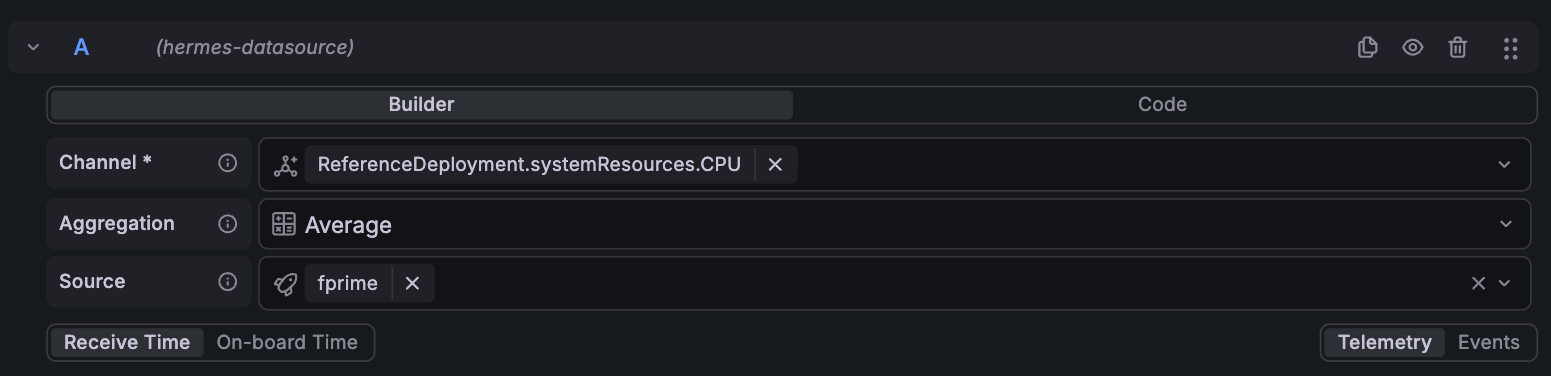
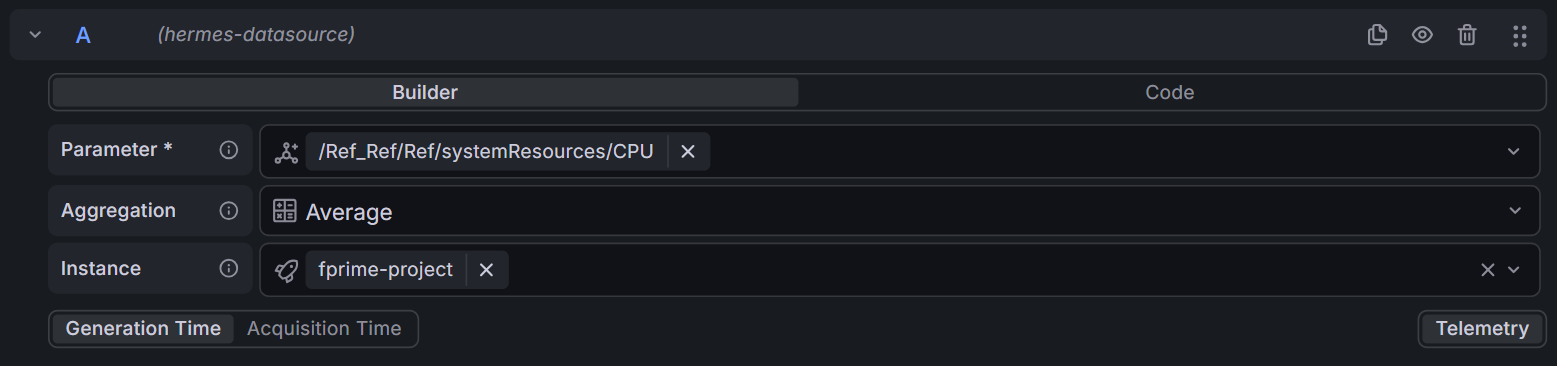
Hide the Events query type
- Show only the Telemetry option in the query type toggle
- Test that the Events option is absent
- Replace the README Events section with a note that it is hidden
- Describe the plugin as telemetry only in the READMEs and the database tooltip

diff --git a/grafana-datasource-plugin/src/components/QueryEditor.test.tsx b/grafana-datasource-plugin/src/components/QueryEditor.test.tsx
@@ -61,7 +61,7 @@ describe('QueryEditor — Telemetry', () => {
     await act(async () => { render(<QueryEditor {...buildProps()} />); });
 
     expect(screen.getByRole('radio', { name: /Telemetry/ })).toBeInTheDocument();
-    expect(screen.getByRole('radio', { name: /Events/ })).toBeInTheDocument();
+    expect(screen.queryByRole('radio', { name: /Events/ })).not.toBeInTheDocument();
     expect(screen.queryByRole('combobox', { name: /Component/ })).not.toBeInTheDocument();
     expect(screen.getByRole('combobox', { name: /Parameter/ })).toBeInTheDocument();
     expect(screen.getByRole('combobox', { name: /Instance/ })).toBeInTheDocument();

diff --git a/grafana-datasource-plugin/src/components/BuilderEditor.tsx b/grafana-datasource-plugin/src/components/BuilderEditor.tsx
@@ -69,7 +69,9 @@ export function BuilderEditor({ query, onChange, onRunQuery, datasource }: Build
       />
       <RadioButtonGroup
         id="query-editor-query-type"
-        options={QUERY_TYPE_OPTIONS.filter(opt => opt.value !== 'raw')}
+        // yamcs-recorder only records telemetry, so we leave Events out of the toggle.
+        // Raw SQL stays out too, since a query becomes raw SQL by switching the editor to Code.
+        options={QUERY_TYPE_OPTIONS.filter(opt => opt.value === 'telemetry')}
         value={queryType}
         onChange={onQueryTypeChange}
         size="sm"

diff --git a/grafana-datasource-plugin/src/components/ConfigEditor.tsx b/grafana-datasource-plugin/src/components/ConfigEditor.tsx
@@ -76,7 +76,7 @@ export function ConfigEditor(props: Props) {
           onChange={onPasswordChange}
         />
       </InlineField>
-      <InlineField label="Database" labelWidth={14} tooltip="Database name where telemetry and events will be stored." required>
+      <InlineField label="Database" labelWidth={14} tooltip="Database that yamcs-recorder writes to." required>
         <Input
           id="config-editor-database"
           onChange={onDatabaseChange}

diff --git a/grafana-datasource-plugin/src/README.md b/grafana-datasource-plugin/src/README.md
@@ -8,9 +8,9 @@
 
 ## Overview
 
-**Hermes** is a Grafana backend datasource plugin that connects to a [TimescaleDB](https://www.timescale.com/) database to query and visualize **telemetry** and **events** data from NASA's [Hermes ground data system (GDS)](https://github.com/nasa/hermes).
+**Hermes** is a Grafana backend datasource plugin that connects to a [TimescaleDB](https://www.timescale.com/) database to query and visualize **telemetry** data from NASA's [Hermes ground data system (GDS)](https://github.com/nasa/hermes).
 
-The plugin provides a multi-select query editor for querying events and telemetry, making it easy to build dashboards over spacecraft telemetry and event streams without writing raw SQL. Multiple telemetry channels, instances, and members can be selected in a single query to overlay or compare data series. Additionally you can write custom SQL queries.
+The plugin provides a multi-select query editor for querying telemetry, making it easy to build dashboards over spacecraft telemetry without writing raw SQL. Multiple parameters, instances, and members can be selected in a single query to overlay or compare data series. Additionally you can write custom SQL queries.
 
 ## Requirements
 
@@ -73,17 +73,13 @@ Notes:
 
 #### Builder: Events
 
-Select **Events** in the bottom-right toggle. Returns event log entries with fields: timestamp, component, name, severity, message, source, args.
-
-| Field      | Type                   | Description                                                |
-| ---------- | ---------------------- | ---------------------------------------------------------- |
-| **Source** | multi-select, optional | FSW source identifier. Leave empty to include all sources. |
+The Events query type is hidden because yamcs-recorder only records telemetry.
 
 <br>
 
 #### Builder: Shared options
 
-Available for both query types:
+Available for all query types:
 
 | Field                  | Description                                                                                            |
 | ---------------------- | ------------------------------------------------------------------------------------------------------ |

diff --git a/grafana-datasource-plugin/README.md b/grafana-datasource-plugin/README.md
@@ -1,6 +1,6 @@
 # Hermes-Datasource
 
-A [Grafana](https://grafana.com/) backend datasource plugin that connects to [TimescaleDB](https://www.timescale.com/) to query and visualize **telemetry** and **event** data from NASA's Hermes flight software system.
+A [Grafana](https://grafana.com/) backend datasource plugin that connects to [TimescaleDB](https://www.timescale.com/) to query and visualize **telemetry** data from NASA's Hermes ground data system.
 
 For end-user documentation (configuration, query editor usage, etc.), see the [plugin catalog README](src/README.md).
 
